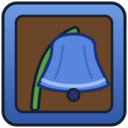
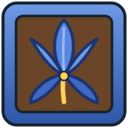
Teal tile is now an Iris (upright petals and falls) instead of a bell; color renamed Iris
Claude-Session: https://claude.ai/code/session_013EccGmGcBAAqujeLGmWbCi

Changed region(s): [[0.2188, 0.125, 0.875, 0.875]]

diff --git a/Assets/Scripts/Core/Modifiers/ModifierDefinition.cs b/Assets/Scripts/Core/Modifiers/ModifierDefinition.cs
@@ -79,7 +79,7 @@ namespace Contigu.Core
 
         public static readonly ModifierDefinition Complementaire = new ModifierDefinition(
             ModifierId.Complementaire, ModifierCategory.Couleurs, "Companion Bloom",
-            "x2 Mult if a complementary pair is touched (Poppy/Sunflower or Bluebell/Fern).");
+            "x2 Mult if a complementary pair is touched (Poppy/Sunflower or Iris/Fern).");
 
         public static readonly ModifierDefinition Ilot = new ModifierDefinition(
             ModifierId.Ilot, ModifierCategory.Voisinage, "Islet",
@@ -155,8 +155,8 @@ namespace Contigu.Core
             "+3 Mult on Poppy seeds.");
 
         public static readonly ModifierDefinition DevotionTeal = new ModifierDefinition(
-            ModifierId.DevotionTeal, ModifierCategory.Couleurs, "Bluebell Devotion",
-            "+3 Mult on Bluebell seeds.");
+            ModifierId.DevotionTeal, ModifierCategory.Couleurs, "Iris Devotion",
+            "+3 Mult on Iris seeds.");
 
         public static readonly ModifierDefinition DevotionViolet = new ModifierDefinition(
             ModifierId.DevotionViolet, ModifierCategory.Couleurs, "Sunflower Devotion",
@@ -196,8 +196,8 @@ namespace Contigu.Core
             "+6 pts per group cell on Poppy seeds.");
 
         public static readonly ModifierDefinition EclatTeal = new ModifierDefinition(
-            ModifierId.EclatTeal, ModifierCategory.Couleurs, "Bluebell Glow",
-            "+6 pts per group cell on Bluebell seeds.");
+            ModifierId.EclatTeal, ModifierCategory.Couleurs, "Iris Glow",
+            "+6 pts per group cell on Iris seeds.");
 
         public static readonly ModifierDefinition EclatViolet = new ModifierDefinition(
             ModifierId.EclatViolet, ModifierCategory.Couleurs, "Sunflower Glow",

diff --git a/Design/Tiles/generate_tiles.py b/Design/Tiles/generate_tiles.py
@@ -32,9 +32,17 @@ tiles['Ember'] = tile('#d9433f', '#a73232', SOIL,
     ''.join('<circle cx="%g" cy="%g" r="40" fill="#d9433f" stroke="#7a1f22" stroke-width="5"/>' % (128 + 26 * dx, 128 + 26 * dy) for dx, dy in ((-1, -1), (1, -1), (-1, 1), (1, 1))) +
     '<circle cx="128" cy="128" r="24" fill="#2a1418" stroke="%s" stroke-width="4"/>' % O)
 
-# Cornflower
+# Iris: three upright petals and three drooping falls, a fleur-de-lis silhouette unlike the round flowers
+iris_up = '<path d="M128 150 C100 112 106 62 128 40 C150 62 156 112 128 150 Z" fill="#5b86e0" stroke="#1d3470" stroke-width="6"/>'
+iris_side = ''.join('<path d="M128 150 C%d 138 %d 92 %d 78 C%d 100 %d 128 128 150 Z" fill="#6f9ae6" stroke="#1d3470" stroke-width="6"/>' % (x1, x2, x3, x4, x5)
+                    for x1, x2, x3, x4, x5 in ((96, 70, 62, 100, 112), (160, 186, 194, 156, 144)))
+iris_fall = ''.join('<path d="M128 150 C%d 150 %d 190 %d 206 C%d 196 %d 176 128 150 Z" fill="#3d68c4" stroke="#1d3470" stroke-width="6"/>' % (x1, x2, x3, x4, x5)
+                    for x1, x2, x3, x4, x5 in ((92, 56, 62, 90, 108), (164, 200, 194, 166, 148)))
 tiles['Frost'] = tile('#6f9ae6', '#2f56a6', SOIL,
-    petals(10, 84, 22, '#5b86e0', '#1d3470', 5) + '<circle cx="128" cy="128" r="18" fill="#2a2f6e" stroke="%s" stroke-width="4"/>' % O)
+    iris_fall + iris_side + iris_up +
+    '<path d="M128 152 C124 170 126 186 128 204" fill="none" stroke="#ffd45a" stroke-width="9" stroke-linecap="round"/>' +
+    '<path d="M128 56 C126 92 126 120 128 146" fill="none" stroke="#a9c4ff" stroke-width="5" opacity="0.8"/>' +
+    '<circle cx="128" cy="152" r="9" fill="#ffd45a" stroke="%s" stroke-width="3"/>' % O)
 
 # Sunflower
 tiles['Gold'] = tile('#f5c95c', '#b87a14', SOIL,

diff --git a/Assets/Scripts/Data/VisualDefaults.cs b/Assets/Scripts/Data/VisualDefaults.cs
@@ -29,7 +29,7 @@ namespace Contigu.Data
         private static readonly Dictionary<PieceColor, Color> ColorMap = new Dictionary<PieceColor, Color>
         {
             { PieceColor.Coral, new Color(0.784f, 0.251f, 0.247f) }, // #c8403f (Poppy)
-            { PieceColor.Teal, new Color(0.310f, 0.498f, 0.816f) }, // #4f7fd0 (Bluebell)
+            { PieceColor.Teal, new Color(0.310f, 0.498f, 0.816f) }, // #4f7fd0 (Iris)
             { PieceColor.Violet, new Color(0.910f, 0.659f, 0.180f) }, // #e8a82e (Sunflower)
             { PieceColor.Lime, new Color(0.353f, 0.620f, 0.271f) }, // #5a9e45 (Fern)
             { PieceColor.Joker, new Color(0.549f, 0.388f, 0.690f) } // #8c63b0 (Lavender)
@@ -38,7 +38,7 @@ namespace Contigu.Data
         private static readonly Dictionary<PieceColor, string> ColorNames = new Dictionary<PieceColor, string>
         {
             { PieceColor.Coral, "Poppy" },
-            { PieceColor.Teal, "Bluebell" },
+            { PieceColor.Teal, "Iris" },
             { PieceColor.Violet, "Sunflower" },
             { PieceColor.Lime, "Fern" },
             { PieceColor.Joker, "Joker" }

diff --git a/README.md b/README.md
@@ -20,7 +20,7 @@ noms de code et le reste de ce document gardent l'ancien vocabulaire.
 | line clear | Harvest (récolte) |
 | modificateur (`Modifier`) | Fertilizer |
 | Lueur | Pollen |
-| Coral / Teal / Violet / Lime | Poppy / Bluebell / Sunflower / Fern |
+| Coral / Teal / Violet / Lime | Poppy / Iris / Sunflower / Fern |
 | Classic / Marathon / Chaos | Spring / Winter / Wildgrowth |
 | Common / Uncommon / Rare | Wild / Cultivated / Heirloom |
 | Bombe / Range / Éclat / Précision / Sangsue | Spore Burst / Long Reach / Overflow / Pruning / Sap Drain |
